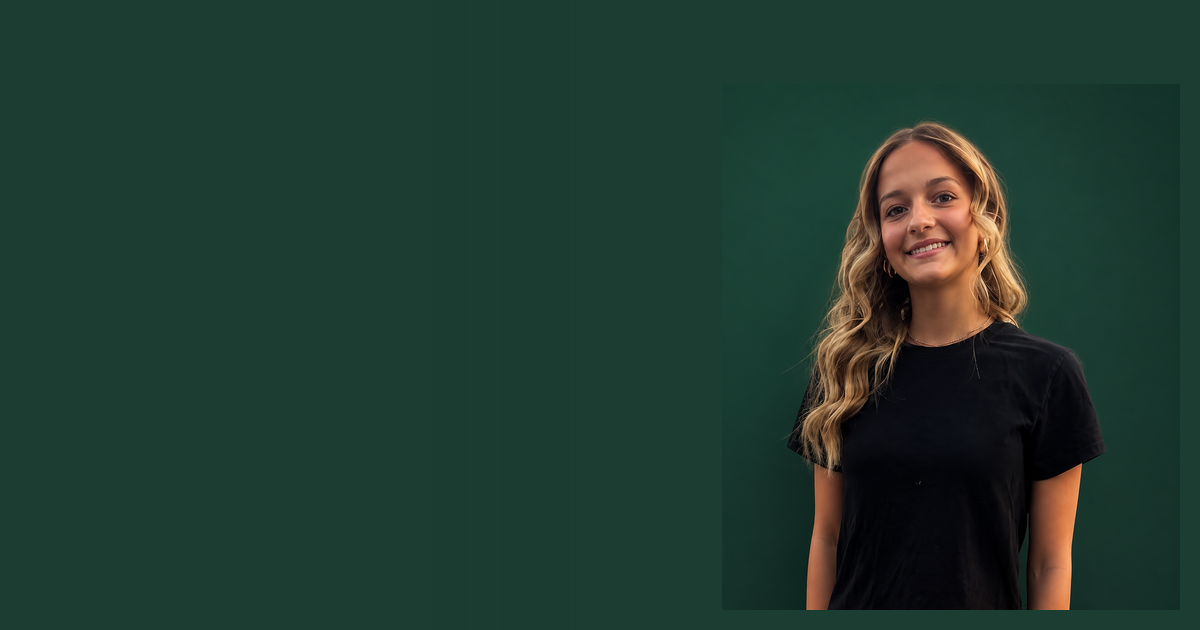
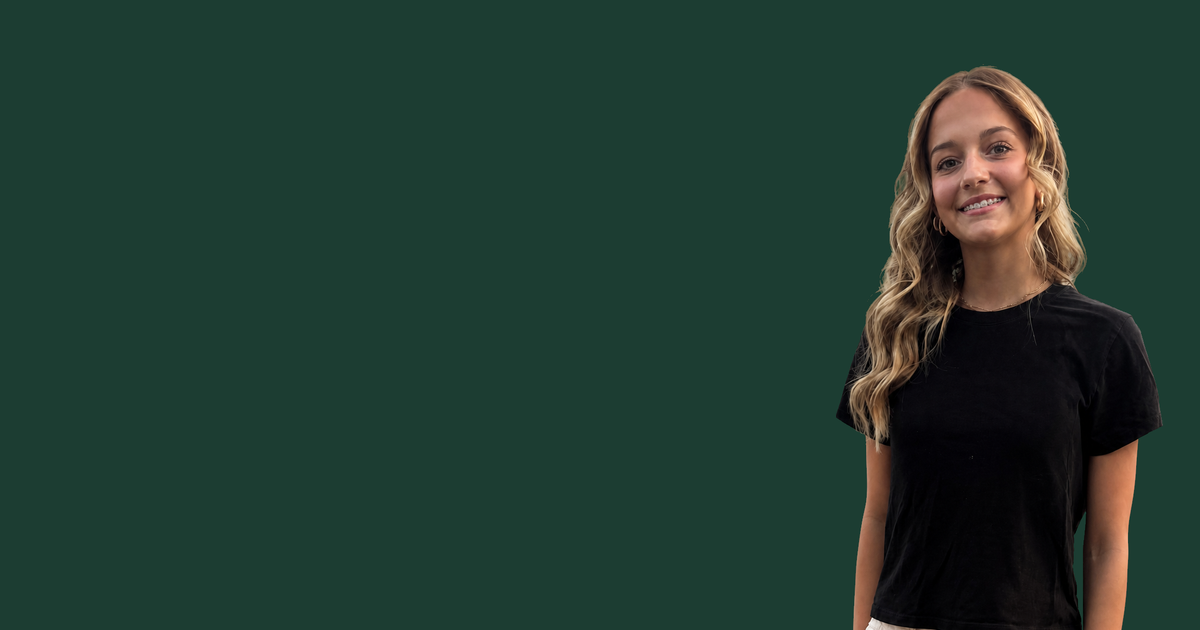
Fix OG plate: full head on seamless fairway green.
Source JPEG clips her crown and the old plate kept a second green photo box; rebuild from a full-head plate flood-filled to #1c3d32 with clear headroom.

Changed region(s): [[0.6475, 0.0905, 0.9867, 1.0]]

diff --git a/README.md b/README.md
@@ -124,7 +124,7 @@ Cursor rule: `.cursor/rules/domain-cutover-cloudflare.mdc` (fires when you ask t
 - Logo: `public/brand/logo-96.webp` (chrome) · `logo.jpg` / `logo.webp` source
 - Maddy photo: responsive WebP (`maddy-640/960.webp` + `maddy.webp`) with JPEG fallback
 - Favicon / apple-touch: `app/favicon.ico` (16/32/48 from brand logo), `app/icon.png` **192**, `app/apple-icon.png` **180**
-- Open Graph: fairway-green plate with AI-cleaned hair edges + smooth blend (no white halo / choppy cutout); logo/name on the left; event covers use photo + tent
+- Open Graph: fairway-green plate (`#1c3d32`) with a full-head Maddy cutout on the right (source JPEG clips her crown, so `maddy-og-fullhead.png` restores it); no rectangular “photo box” / double green — rebuild with `node scripts/rebuild-og-cutout.mjs`; logo/name on the left; event covers use photo + tent
 - Footer: Explore + Site columns, Privacy, optional contact, BraddCorp credit (LECYC pattern)
 - Type: Literata (display 400/600) + Source Sans 3 (body 400/500) — major-third scale
 - Performance: public home/events ISR (60s; register 30s); admin/register writes call `revalidatePublicEvents`; hero WebP preloaded; logo not priority; `/brand/*` long-cache
